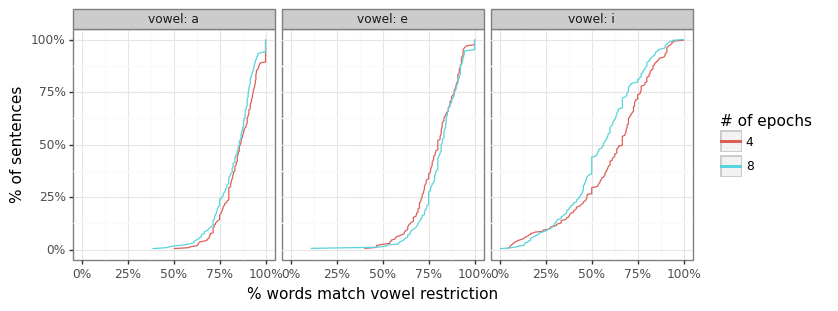
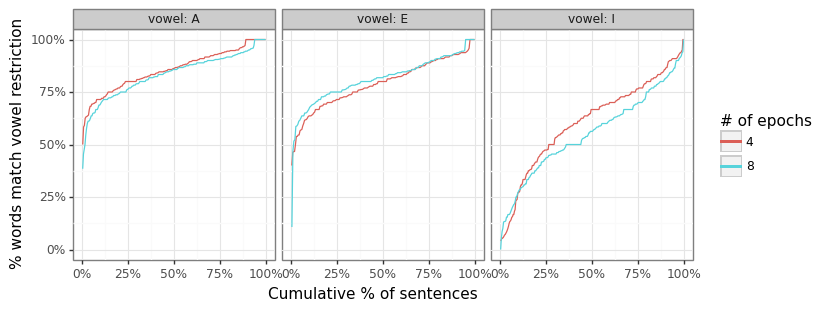
swapping x/y axis

diff --git a/6_statistics.py b/6_statistics.py
@@ -86,23 +86,23 @@ if os.path.exists(path_epoch4) and os.path.exists(path_epoch8):
     print((100*(1-pd.concat([ecdf_sentence.assign(vowel='All'),ecdf_sentence]).groupby(cn_gg)['pct'].mean().round(2))).astype(int).astype(str)+'%')
 
     # Plot the ECDF using plotnine coloring by epoch
-    gg = (pn.ggplot(ecdf_sentence, pn.aes(x='pct', y='ecdf', color='factor(epoch)')) + 
+    gg = (pn.ggplot(ecdf_sentence, pn.aes(x='ecdf', y='pct', color='factor(epoch)')) + 
         pn.geom_line(size=0.5) + pn.theme_bw() +
         pn.scale_x_continuous(limits=(0,1),labels=percent_format()) + 
         pn.scale_y_continuous(limits=(0,1),labels=percent_format()) + 
         pn.facet_wrap('~vowel',labeller=pn.label_both) +
         pn.guides(color=pn.guide_legend(title='# of epochs')) + 
-        pn.labs(x='% words match vowel restriction', y='% of sentences'))
+        pn.labs(y='% words match vowel restriction', x='Cumulative % of sentences'))
     gg.save(os.path.join('output','ecdf_epoch.png'), width=8, height=3)
 
     # Plot the ECDF but this time coloring by vowel
-    gg = (pn.ggplot(ecdf_sentence, pn.aes(x='pct', y='ecdf', color='factor(vowel)')) + 
+    gg = (pn.ggplot(ecdf_sentence, pn.aes(x='ecdf', y='pct', color='factor(vowel)')) + 
         pn.geom_line(size=0.5) + pn.theme_bw() +    
         pn.scale_x_continuous(limits=(0,1),labels=percent_format()) +
         pn.scale_y_continuous(limits=(0,1),labels=percent_format()) +
         pn.facet_wrap('~epoch',labeller=pn.label_both) +
         pn.guides(color=pn.guide_legend(title='Vowel')) +
-        pn.labs(x='% words match vowel restriction', y='% of sentences'))
+        pn.labs(y='% words match vowel restriction', x='Cumulative % of sentences'))
     gg.save(os.path.join('output','ecdf_vowel.png'), width=8, height=3)
 
 
